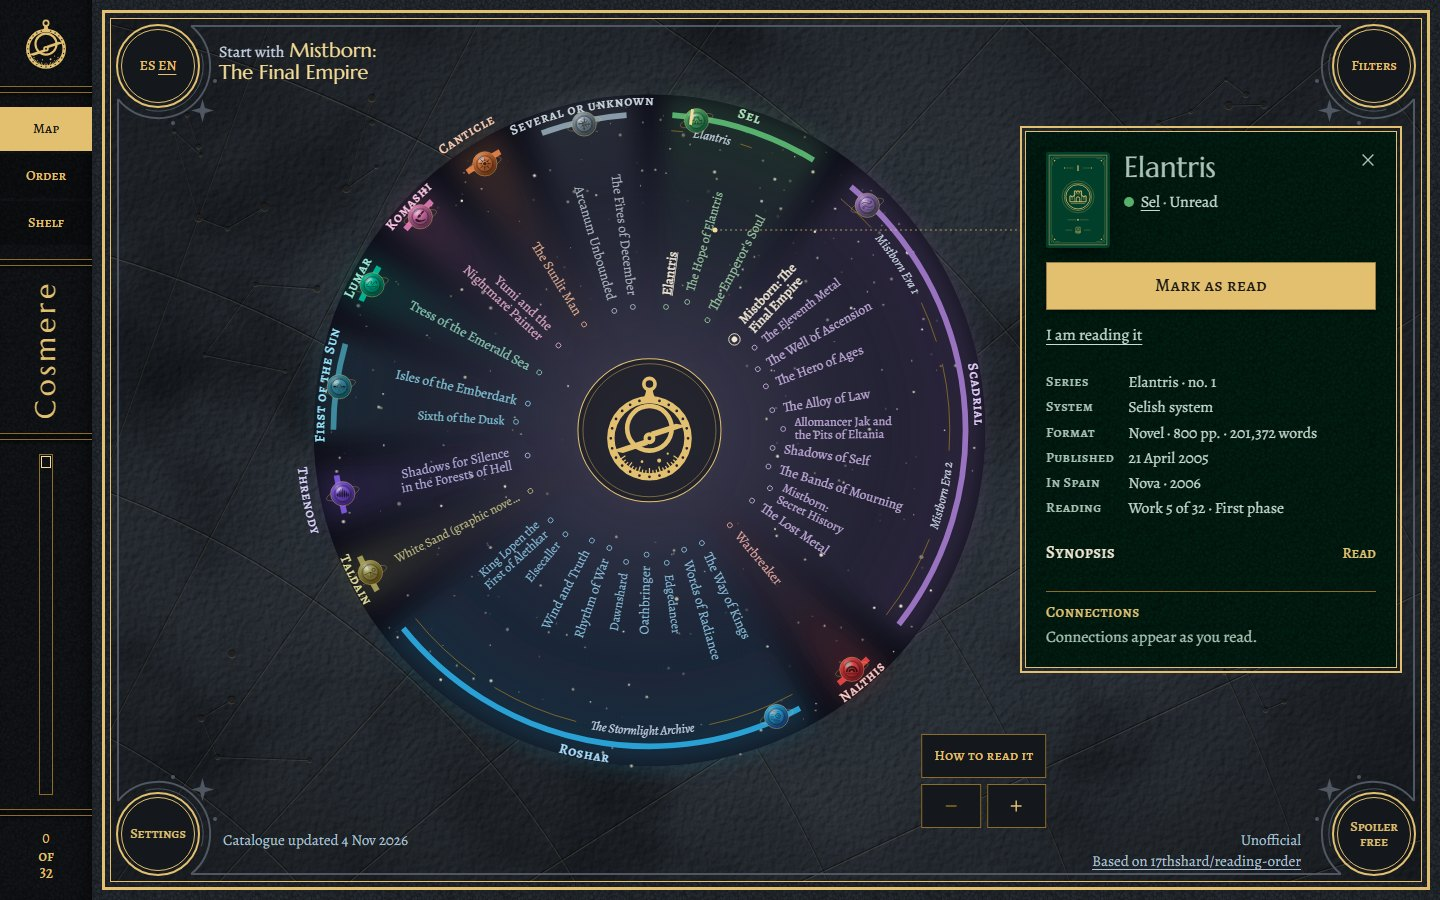
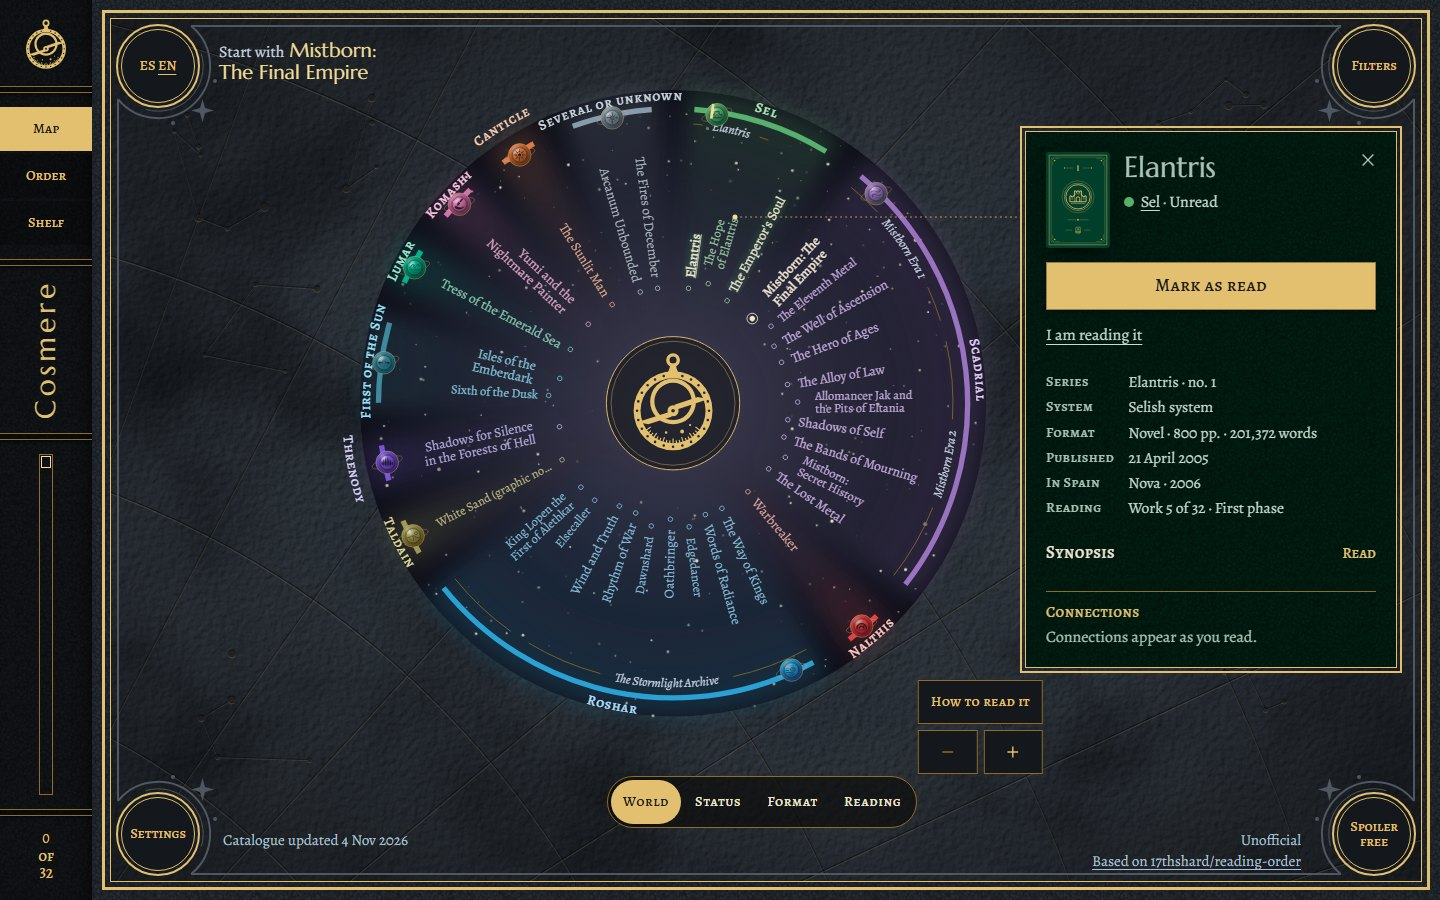
README: current screenshots, the colour layers, no address of its own
The map and the plate are photographed again, with the row of colour
layers. The feature list names the layers. The CI badge and the clone
command are gone: they carried the repository's own address, which
names an account and travels with every fork. A test keeps the pages
written for people to one GitHub address, the project this one forks.

Changed region(s): [[0.1875, 0.0933, 0.7188, 0.9333], [0.3125, 0.7467, 0.3438, 0.7778]]

diff --git a/tests/unit/architecture.test.ts b/tests/unit/architecture.test.ts
@@ -248,3 +248,22 @@ describe('the browser install in CI', () => {
     expect(workflow).toMatch(/for i in 1 2 3; do npx playwright install --with-deps chromium && break/)
   })
 })
+
+describe('the pages written for people', () => {
+  // The repository's own address names an account. It does not go into a file: a file travels with every fork
+  // and every copy. The only GitHub address these pages give is the project this one forks.
+  const pages = ['README.md', 'docs/DATA.md', 'docs/SPOILERS.md', 'docs/DEPLOY.md', 'docs/DESIGN.md']
+
+  test.each(pages)('%s names no account but the project this one forks', (page) => {
+    const text = readFileSync(join(ROOT, page), 'utf8')
+    const owners = [...text.matchAll(/github(?:usercontent)?\.com\/([\w.-]+)/g)].map((m) => m[1])
+    for (const owner of owners) expect(owner, `${page} gives an address under «${owner}»`).toBe('17thshard')
+    expect(text).not.toMatch(/github\.io/)
+  })
+
+  test('the README asks for no badge and no command that needs the address of the repository', () => {
+    const text = readFileSync(join(ROOT, 'README.md'), 'utf8')
+    expect(text).not.toMatch(/actions\/workflows/)
+    expect(text).not.toMatch(/git clone https?:/)
+  })
+})

diff --git a/README.md b/README.md
@@ -9,7 +9,6 @@
 </p>
 
 <p align="center">
-  <a href="https://github.com/alexalbella/cosmere-reading-order/actions/workflows/ci.yml"><img src="https://github.com/alexalbella/cosmere-reading-order/actions/workflows/ci.yml/badge.svg" alt="CI"></a>
   <a href="LICENSE"><img src="https://img.shields.io/badge/licence-MIT-e2c070" alt="MIT licence"></a>
   <img src="https://img.shields.io/badge/Vue-3-42b883" alt="Vue 3">
   <img src="https://img.shields.io/badge/TypeScript-strict-3178c6" alt="TypeScript">
@@ -28,6 +27,7 @@ It is a Vue 3 rewrite of [17thshard/reading-order](https://github.com/17thshard/
 
 - A sentence at the top says which book you are on, which comes next and whether its Spanish edition is out. It follows the order you choose, recommended or by publication.
 - You can look at the same catalogue three ways: as a map with the works on a ring by world, as the reading order in one line, or as a shelf of spines by phase.
+- The titles on the ring wear the colour of their world. A row of four buttons under the ring repaints them by publication status, by format or by what you have read, and a legend names each colour.
 - Every work has a plate with its series and number, star system, format, pages and words, first publication, Spanish publisher, and a link to read it for free when the author gives it away. Works that are announced, apocryphal or role-playing books add their own facts: how far the writing is, when it is expected, who publishes it, whether it is canon.
 - Connections, synopses and notes each list the works they would spoil, and appear only when you have read them all. A synopsis stays folded until you ask for it.
 - Your marks live on the device. With the full deploy they also travel between your devices; without it, you can export them to a file and import it elsewhere.
@@ -72,11 +72,9 @@ Nothing about a work you have not read reaches the screen.
 
 ## Quick start
 
-You need Node 24 (see `.nvmrc`).
+You need Node 24 (see `.nvmrc`). Clone the repository, then from its folder:
 
 ```bash
-git clone https://github.com/alexalbella/cosmere-reading-order.git
-cd cosmere-reading-order
 npm ci
 npm run dev
 ```
